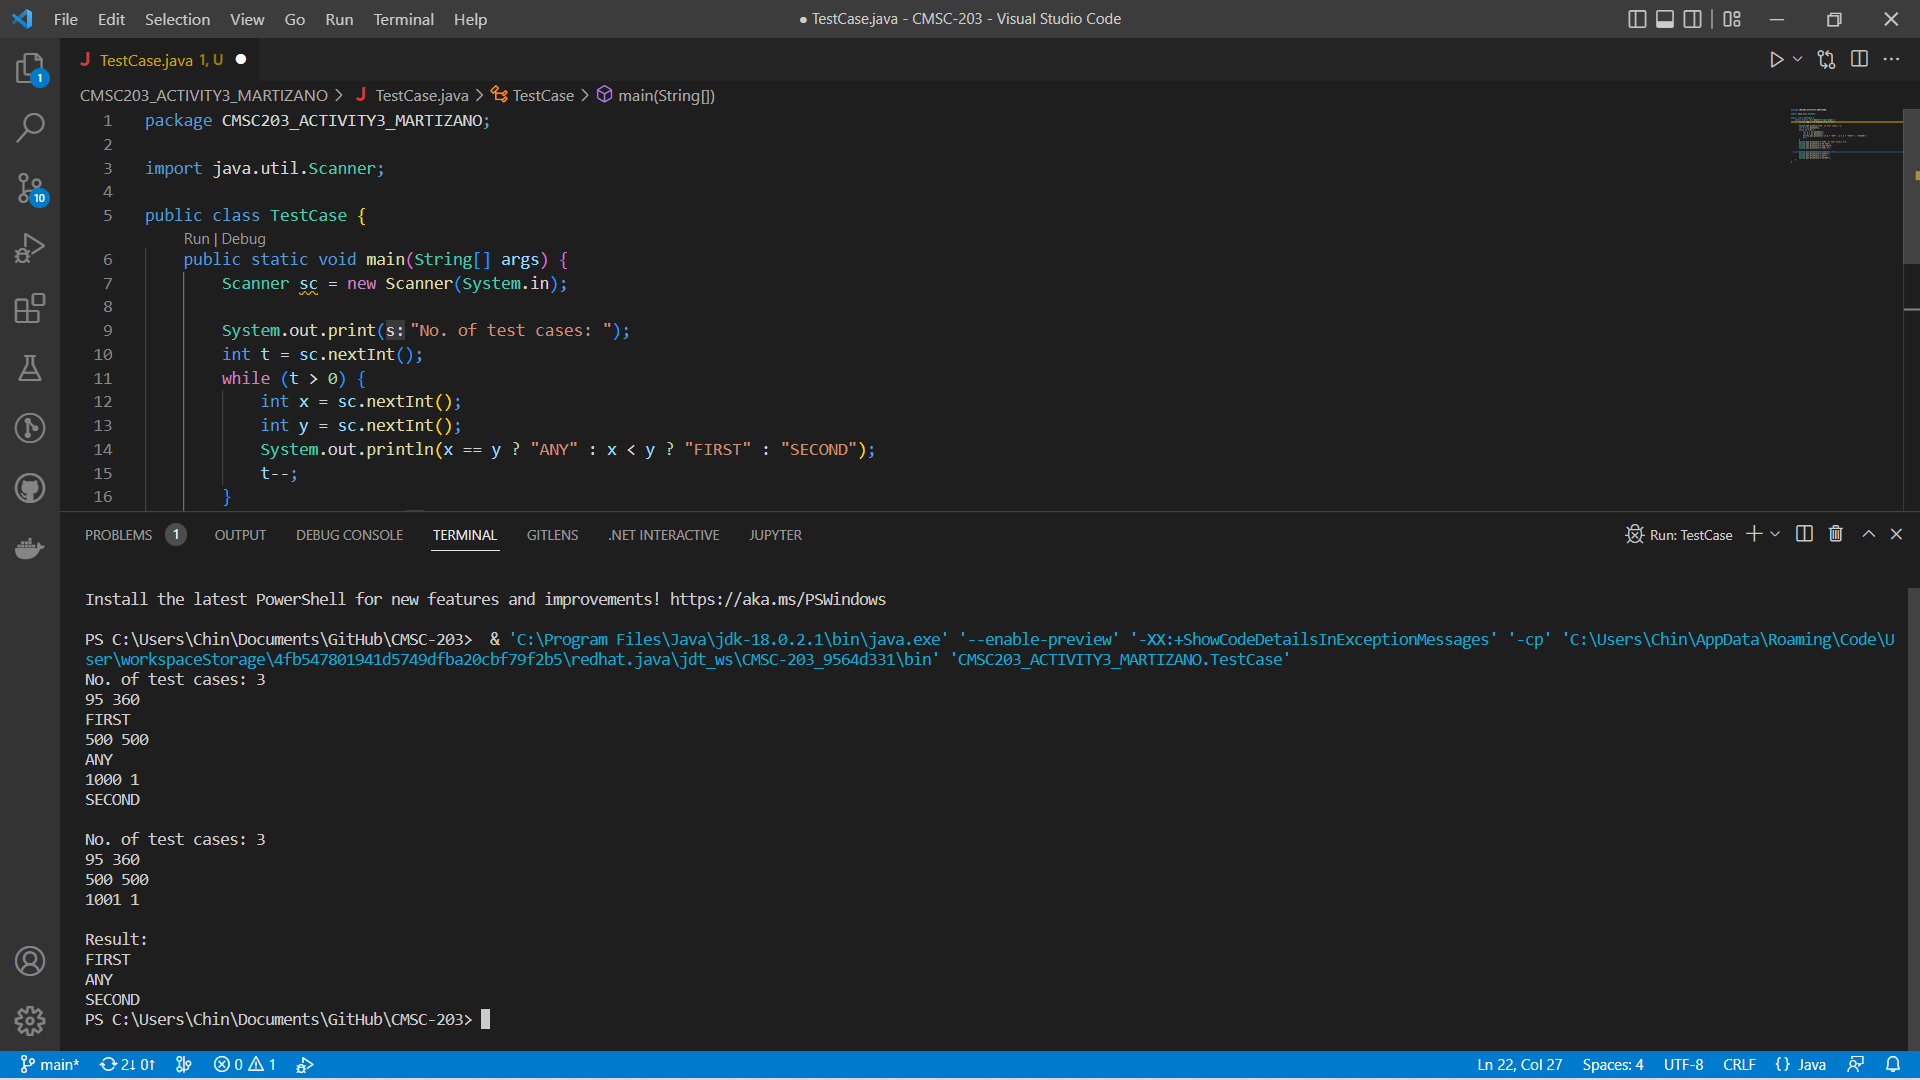
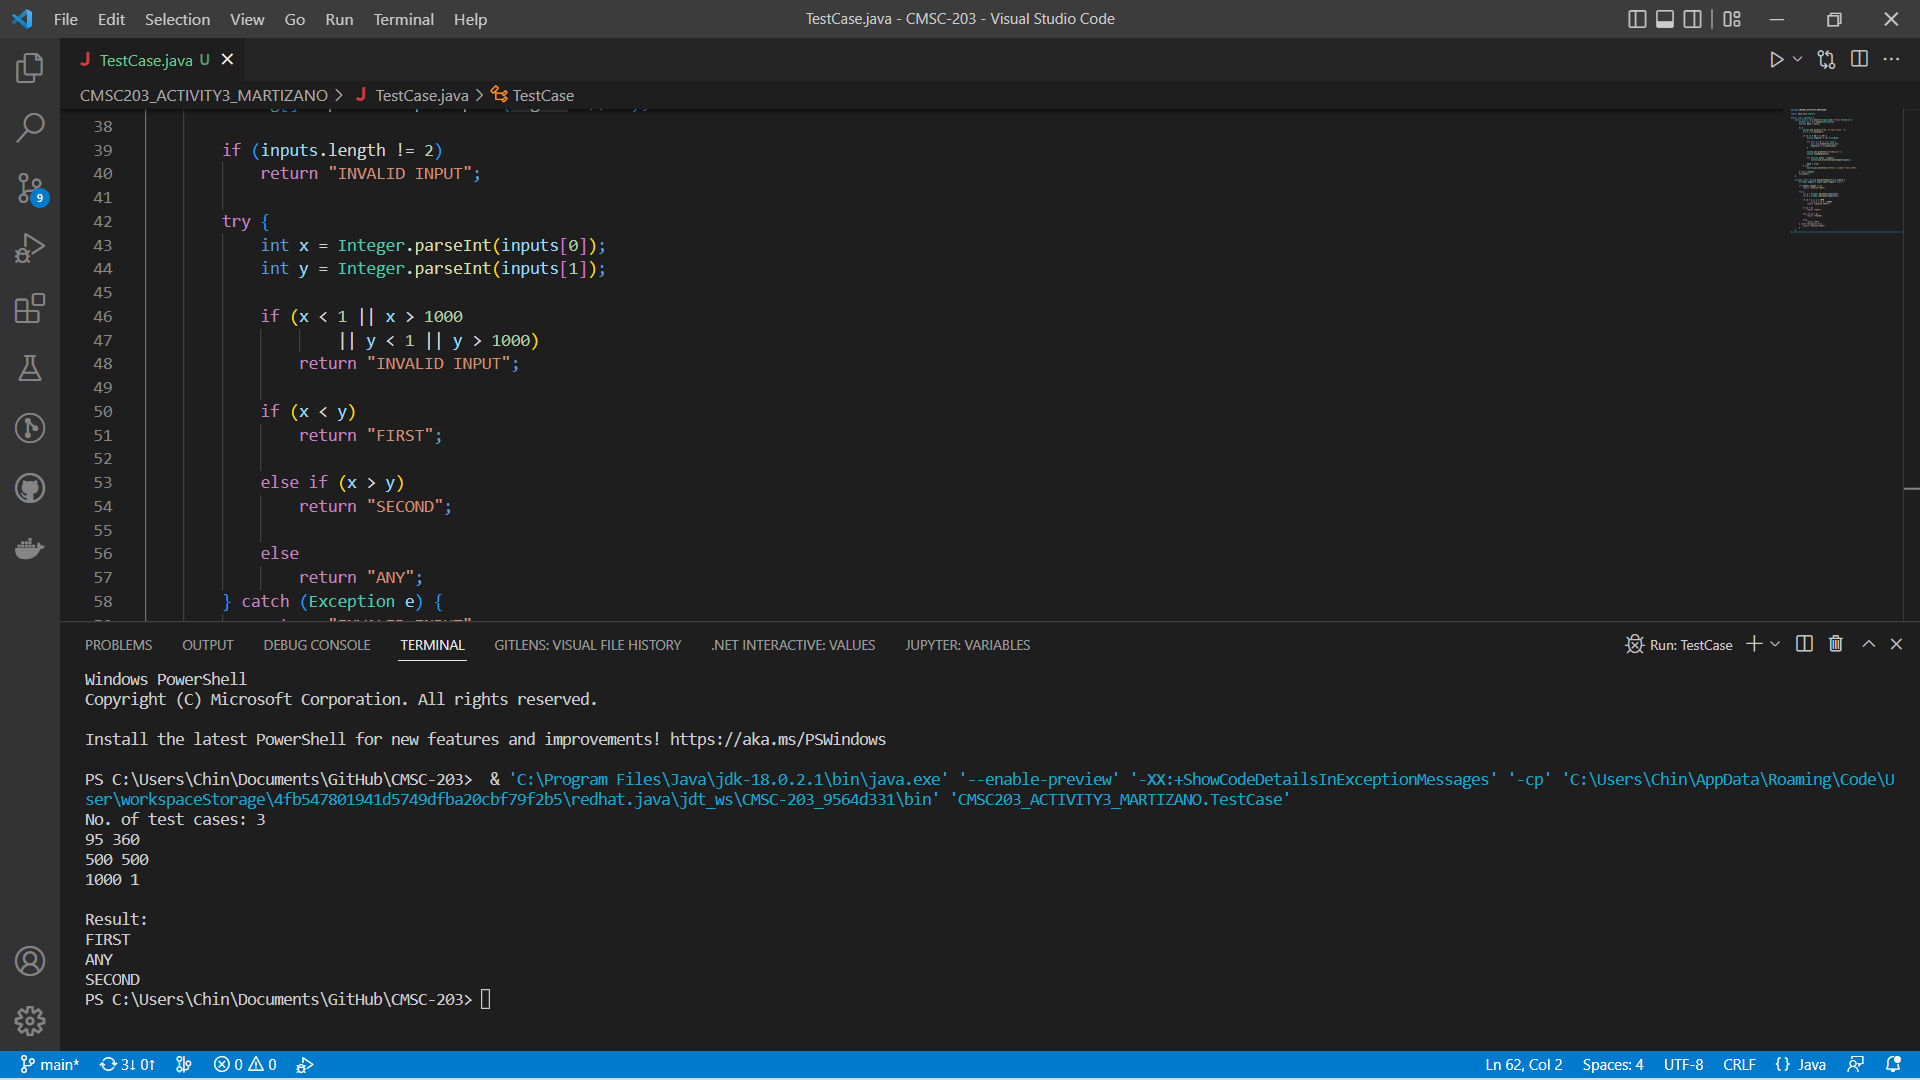
Add files via upload

diff --git a/CMSC203_ACTIVITY3_MARTIZANO/TestCase.java b/CMSC203_ACTIVITY3_MARTIZANO/TestCase.java
@@ -3,25 +3,60 @@ package CMSC203_ACTIVITY3_MARTIZANO;
 import java.util.Scanner;
 
 public class TestCase {
-    public static void main(String[] args) {
+    public static void main(String[] args) throws Exception {
         Scanner sc = new Scanner(System.in);
+        boolean done = false;
 
-        System.out.print("No. of test cases: ");
-        int t = sc.nextInt();
-        while (t > 0) {
-            int x = sc.nextInt();
-            int y = sc.nextInt();
-            System.out.println(x == y ? "ANY" : x < y ? "FIRST" : "SECOND");
-            t--;
+        do {
+            System.out.print("No. of test cases: ");
+            int t = sc.nextInt();
+
+            if (1 <= t && t <= 10) {
+                String inputs[] = new String[t];
+
+                for (int i = 0; i < t; i++) {
+                    sc = new Scanner(System.in);
+                    inputs[i] = sc.nextLine();
+                }
+
+                System.out.println("\nResult:");
+                System.lineSeparator();
+
+                for (String input : inputs)
+                    System.out.println(processInput(input));
+
+                done = true;
+            } else
+                System.out.println("Enter a number from 1-10");
+
+        } while (!done);
+        sc.close();
+    }
+
+    private static String processInput(String input) {
+        String[] inputs = input.split("\\s+");
+
+        if (inputs.length != 2)
+            return "INVALID INPUT";
+
+        try {
+            int x = Integer.parseInt(inputs[0]);
+            int y = Integer.parseInt(inputs[1]);
+
+            if (x < 1 || x > 1000
+                    || y < 1 || y > 1000)
+                return "INVALID INPUT";
+
+            if (x < y)
+                return "FIRST";
+
+            else if (x > y)
+                return "SECOND";
+
+            else
+                return "ANY";
+        } catch (Exception e) {
+            return "INVALID INPUT";
         }
-        System.out.println("\nNo. of test cases: 3");
-        System.out.println("95 360");
-        System.out.println("500 500");
-        System.out.println("1001 1");
-
-        System.out.println("\nResult: ");
-        System.out.println("FIRST");
-        System.out.println("ANY");
-        System.out.println("SECOND");
     }
 }
